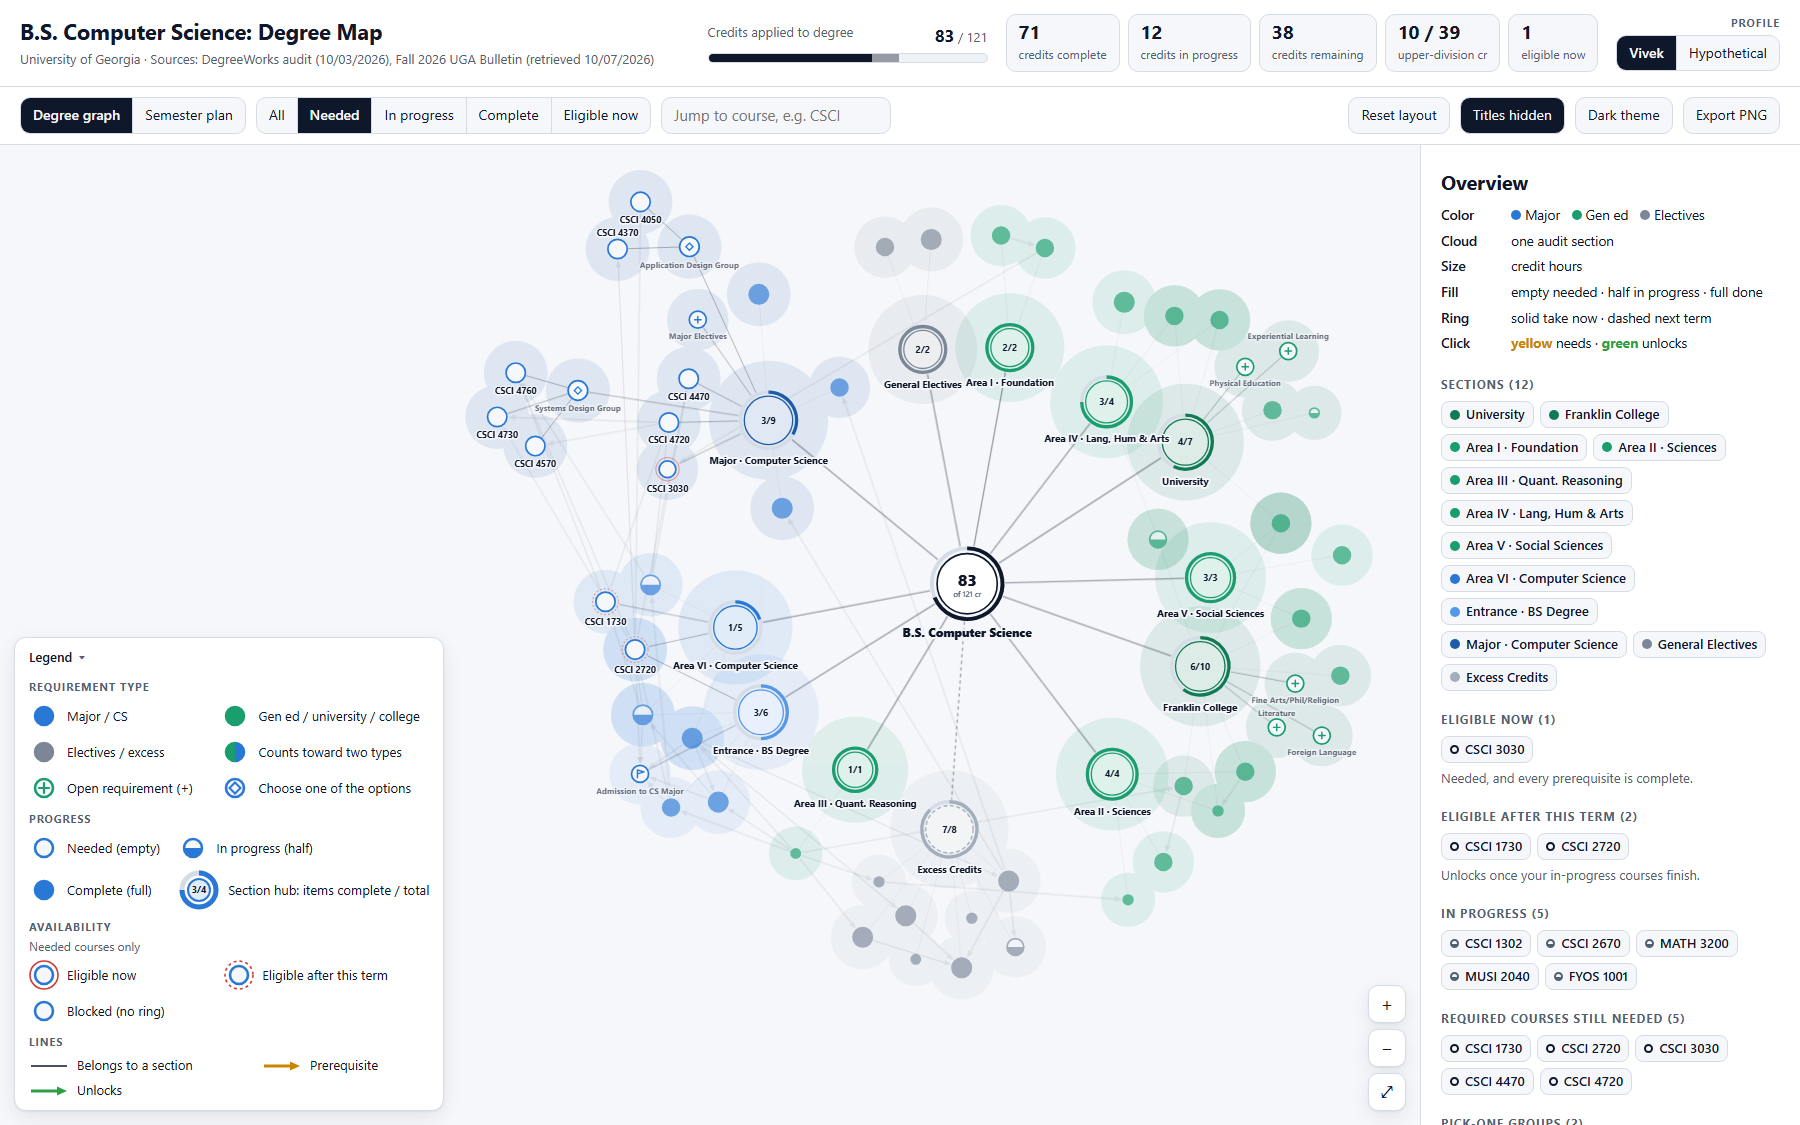
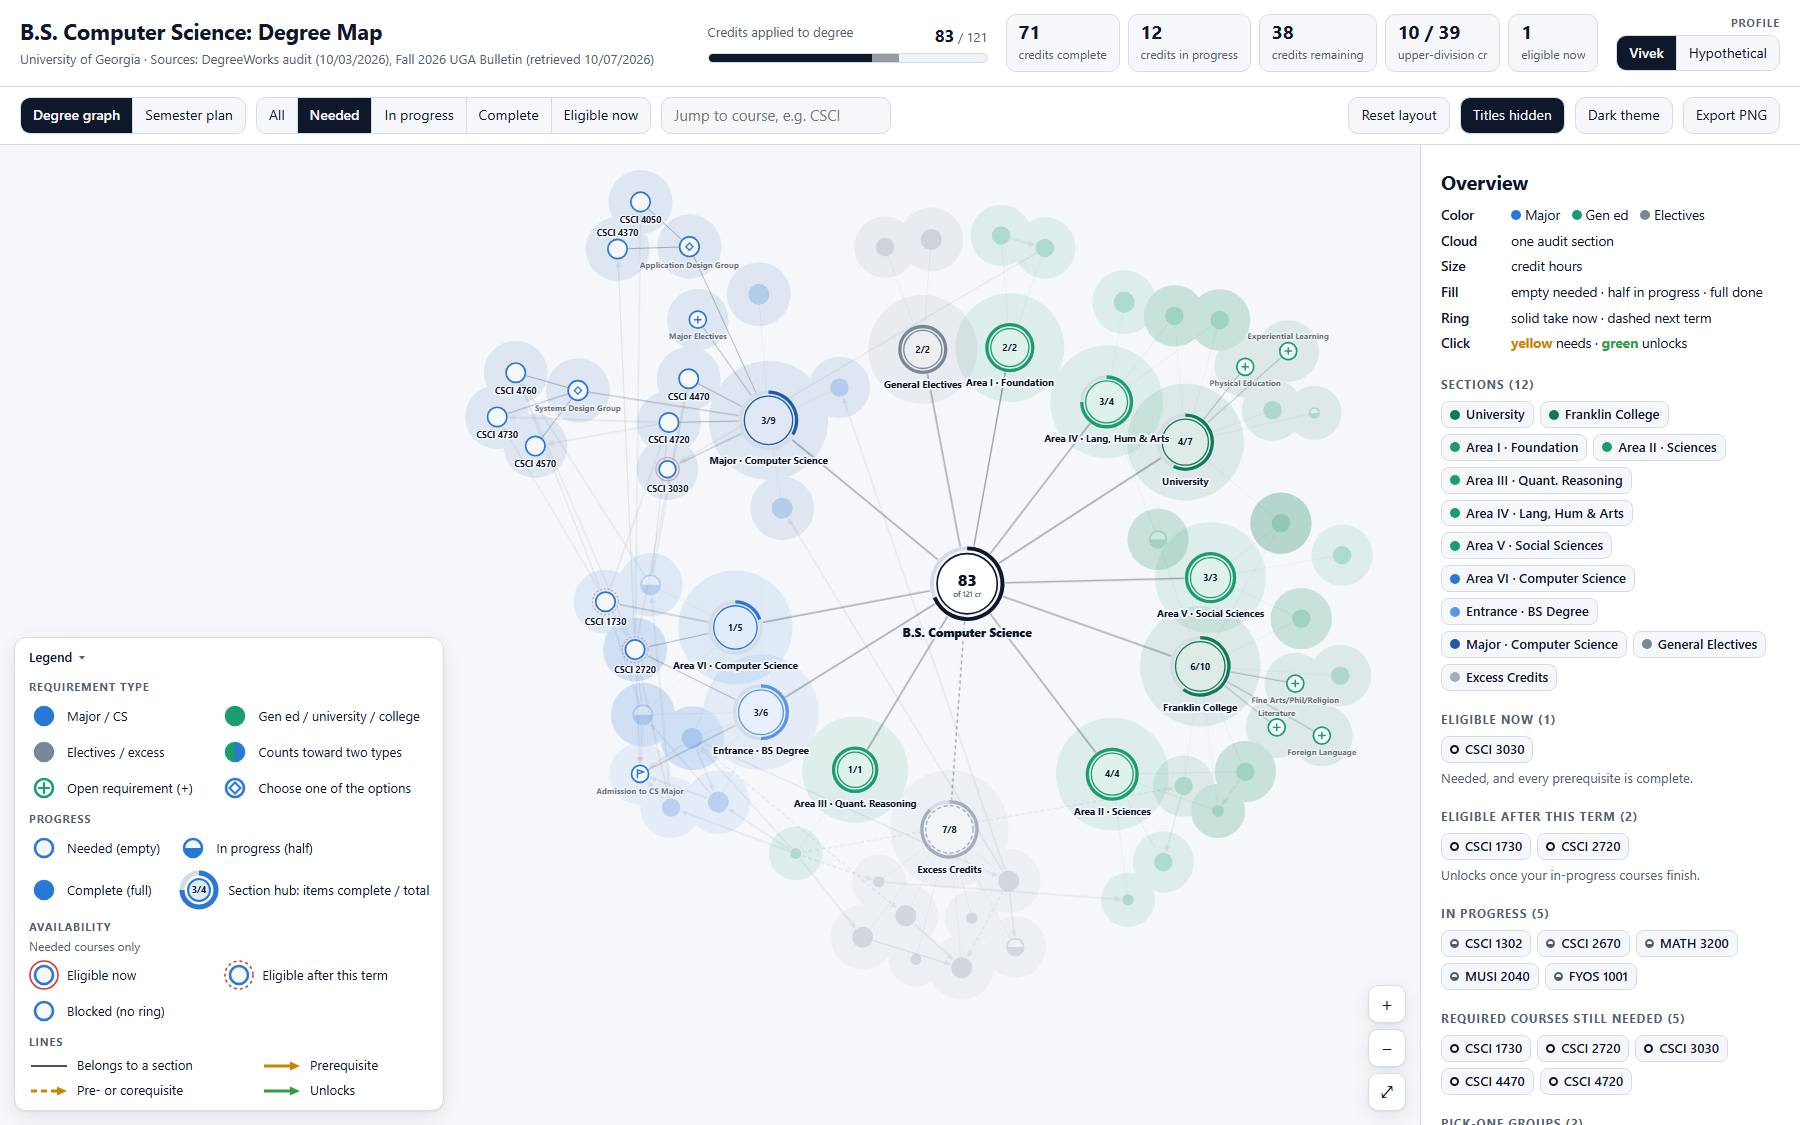
README: document pre/corequisite arrows; refresh screenshots

diff --git a/README.md b/README.md
@@ -60,7 +60,7 @@ Each visual property has exactly one meaning:
 | **Thin red outer ring** | Eligibility, shown only on courses you still need: **solid** = eligible now, **dashed** = eligible after this term, **no ring** = blocked. |
 | **Size** | Credit hours: circle area is proportional to credits (a 4-cr course has 4× the area of a 1-cr course). |
 | **Inner symbol** | Node kind: **none** = course, **+** = open requirement (e.g. Literature, Major Electives), **◇** = pick one (Application Design, Systems Design), **flag** = milestone (Admission to CS Major). Outlines are always solid. |
-| **Lines** | A thin **white line** (dark in light mode) links a course to its section, a section to the degree, and a pick-one group to its options. Prerequisite arrows are hidden until you click a course: then **yellow** arrows show what it needs and **green** arrows what it unlocks. One arrow style covers every kind of prerequisite ("one of several" alternatives and pre-/corequisites included); the side panel says which kind. |
+| **Lines** | A thin **white line** (dark in light mode) links a course to its section, a section to the degree, and a pick-one group to its options. Prerequisite arrows are hidden until you click a course: then **yellow** arrows show what it needs and **green** arrows what it unlocks. A **solid** arrow is a prerequisite (finish it in an earlier term; "one of several" alternatives included). A **dashed** arrow is a pre- or corequisite (take it before or in the same term). The side panel lists the full AND/OR groups. |
 
 | Element | Meaning |
 |---|---|
@@ -75,7 +75,7 @@ The **Overview** panel on the right opens with a six-line key (color, cloud, siz
 ### Interacting
 
 - **Hover** a node: nearby nodes wobble and settle back, its section links light up and everything else fades. A tooltip shows code, credits, status and sections. Its label appears too if it was hidden to avoid overlap.
-- **Click** a course to trace it. Only direct links are shown, one step each way: **yellow** arrows come from the courses it needs, **green** arrows go to the courses (and pick-one groups) it unlocks. Click one of those to follow the chain a step further. Arrows stop just outside the selection ring and are straight, bending only to avoid passing through another highlighted node. The side panel shows:
+- **Click** a course to trace it. Only direct links are shown, one step each way: **yellow** arrows come from the courses it needs (solid = prerequisite, dashed = pre- or corequisite), **green** arrows go to the courses (and pick-one groups) it unlocks. Click one of those to follow the chain a step further. Arrows stop just outside the selection ring and are straight, bending only to avoid passing through another highlighted node. The side panel shows:
   - credits, status and whether you can take it now
   - which sections and requirement lines it counts toward
   - its prerequisites as AND/OR groups, each marked *Met / In progress / Not met*, plus the exact Bulletin wording
@@ -193,7 +193,7 @@ The audit doesn't contain prerequisite chains, so those come from the public [UG
   - **Start:** a seeded random generator gives the same layout every load, and the simulation pre-settles for 380 steps before the first draw.
 - **Clusters:** one translucent group of circles per section, in that section's shade; overlapping groups blend where sections share courses.
 - **Labels:** a greedy declutter pass places labels in priority order (selected/hovered, then needed, in progress, complete). Each tries below, above, right, then left of its node, skipping any spot that overlaps another label, a node, or a highlighted trace arrow; if none is free it stays hidden until hovered. Arrows stop just outside a node's outermost ring (selection, eligibility or hub progress ring). Section and degree labels are always shown.
-- **Legend:** four sections (requirement type, progress, availability, lines). Circle size = credit hours is explained in the overview panel and the exported PNG key. Its examples are drawn by the same functions as the graph, so they match exactly. It never grows taller than the graph area: the contents scroll and the header stays pinned, so it can always be closed.
+- **Legend:** four sections (requirement type, progress, availability, lines). *Lines* has four entries: section line, prerequisite (solid yellow), pre- or corequisite (dashed yellow) and unlocks (green). Circle size = credit hours is explained in the overview panel and the exported PNG key. Its examples are drawn by the same functions as the graph, so they match exactly. It never grows taller than the graph area: the contents scroll and the header stays pinned, so it can always be closed.
 - **Arrows:** shown only for the clicked course. Each is a straight line unless it would pass through another highlighted node; then it bows just enough to go around, trying a shallow bend on either side before a deeper one. A traced pick-one link becomes a green arrow from the course to its group, matching the side panel's *Unlocks* list. *Fit to screen* reserves room for it (on the left or along the bottom, whichever leaves a bigger graph), and it starts collapsed on small screens.
 - **Hover wobble:** a separate damped spring per node, so nodes wobble and always return to where the layout put them. It runs at a fixed ~60 Hz step so motion looks the same on any refresh rate, and turns off under `prefers-reduced-motion`.
 - **Eligibility:** computed with plain logic, no AI. A needed course is *eligible now* if every prerequisite group contains a completed course, and *eligible after this term* if every group has a completed or in-progress one.
